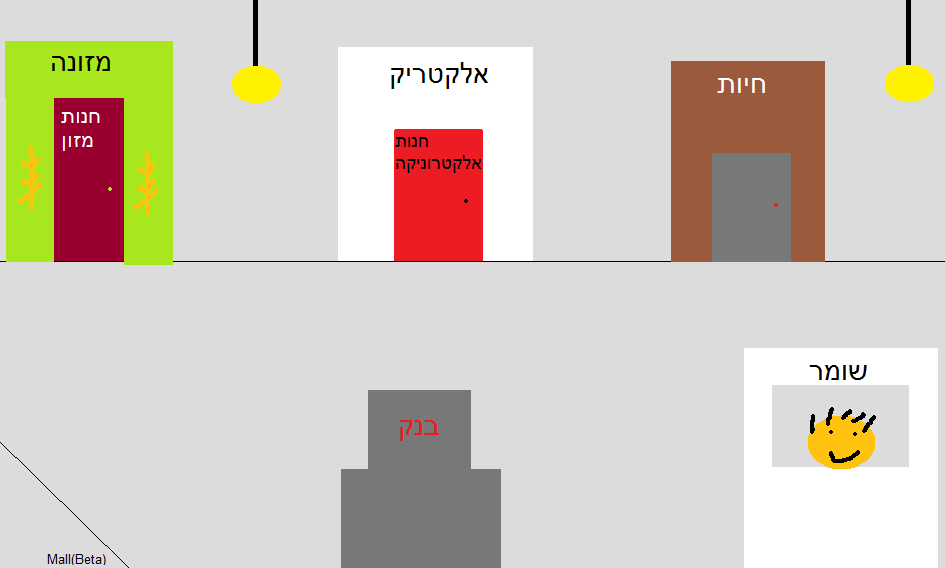
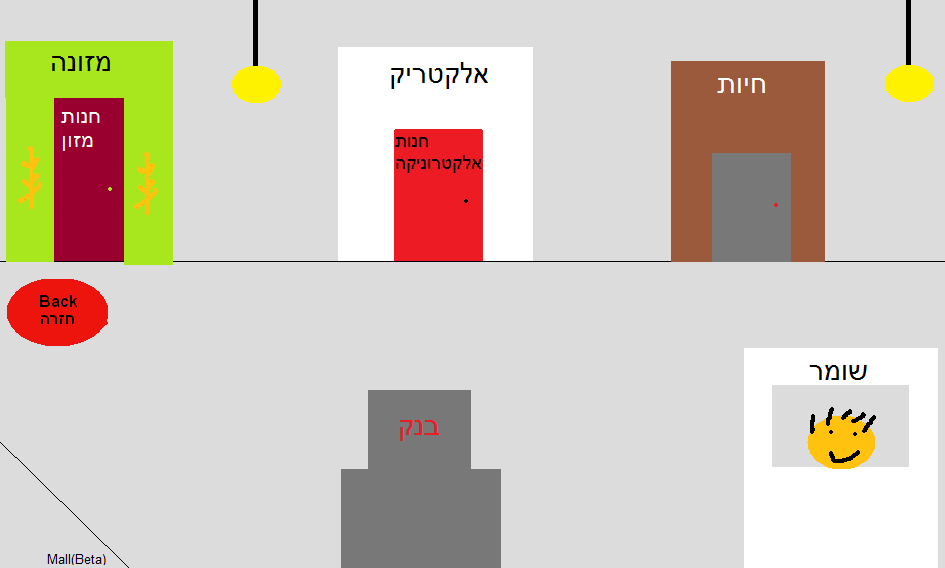
Doing 5 Roads And Battletunnle

Changed region(s): [[0.0, 0.4789, 0.1228, 0.6285]]

diff --git a/system/application/controllers/road2.php b/system/application/controllers/road2.php
@@ -11,60 +11,71 @@ class Road2 extends Funworldlife {
 }
 
 $map_file = array (
-	"file" => "Funworldlife_Mall.png",
+	"file" => "Funworldlife_Road2.png",
 	"width" => 945,
 	"height" => 568
 );
 
 $map = array(
 	array( 
-		"id" =>  "guard", 
-		"href" => "guard.php", 
-		"title" => "שומר",
-		"left" => 740, 
-		"top" => 344, 
-		"width" => 200, 
-		"height" => 224 
+		"id" =>  "Buttletunnle", 
+		"href" => "battletunnle", 
+		"title" => "בית המלחמות | Battletunnle",
+		"left" => 608, 
+		"top" => 92,
+		"width" => 241, 
+		"height" => 470 
 	),
 	
 	array( 
-		"id" =>  "bank", 
-		"href" => "bank.php", 
-		"title" => "בנק",
-		"left" => 339, 
-		"top" => 386, 
-		"width" => 162, 
-		"height" => 182 
+		"id" =>  "buyhouse", 
+		"href" => "buyhouse", 
+		"title" => "Click Her To Bulid A House | לחץ כאן כדי לבנות בית",
+		"left" => 418, 
+		"top" => 461, 
+		"width" => 183, 
+		"height" => 107 
 	),
 	
 	array( 
-		"id" =>  "shop_food", 
-		"href" => "shop_food.php", 
-		"title" => "מזונה - חנות מזון",
-		"left" => 5, 
-		"top" => 42, 
-		"width" => 169, 
-		"height" => 221 
+		"id" =>  "buyhouse2", 
+		"href" => "buyhouse", 
+		"title" => "Click Her To Bulid A House | לחץ כאן כדי לבנות בית",
+		"left" => 227, 
+		"top" => 461, 
+		"width" => 183, 
+		"height" => 107 
 	),
 	
 	array( 
-		"id" =>  "shop_electric", 
-		"href" => "shop_electric.php", 
-		"title" => "אלקטריק - חנות אלקטרוניקה",
-		"left" => 332, 
-		"top" => 42, 
-		"width" => 205, 
-		"height" => 219 
+		"id" =>  "apartments", 
+		"href" => "apartments", 
+		"title" => "דירות | apartments",
+		"left" => 0, 
+		"top" => 251, 
+		"width" => 106, 
+		"height" => 317 
 	),
 	
+		
 	array( 
-		"id" =>  "shop_pets", 
-		"href" => "shop_pets.php", 
-		"title" => "חיות - חנות חיות",
-		"left" => 671, 
-		"top" => 61, 
-		"width" => 153, 
-		"height" => 200 
+		"id" =>  "arrow_left", 
+		"href" => "welcome", 
+		"title" => "לרחוב הקודם",
+		"left" => 0, 
+		"top" => 127, 
+		"width" => 86, 
+		"height" => 54
+	),	
+	
+		array( 
+		"id" =>  "arrow_right", 
+		"href" => "road3", 
+		"title" => "לרחוב הבא",
+		"left" => 853, 
+		"top" => 204, 
+		"width" => 86, 
+		"height" => 41
 	),	
 );
 

diff --git a/system/application/controllers/road3.php b/system/application/controllers/road3.php
@@ -1,0 +1,72 @@
+<?php
+require "Funworldlife.php";
+
+class Road3 extends Funworldlife {
+	function index()
+	{
+		global $map;
+		global $map_file;
+		parent::show_map('Third Road | רחוב שלישי', $map, $map_file);
+	}
+}
+
+$map_file = array (
+	"file" => "Funworldlife_Road3.png",
+	"width" => 945,
+	"height" => 568
+);
+
+$map = array(
+	array( 
+		"id" =>  "Buyhouse3", 
+		"href" => "Buyhouse", 
+		"title" => "לחץ כאן כדי לקנות בית | Click Here To Buy An House",
+		"left" => 36, 
+		"top" => 467,
+		"width" => 180, 
+		"height" => 101 
+	),
+	
+	array( 
+		"id" =>  "Museum", 
+		"href" => "Museum", 
+		"title" => "מוזאון | Museum",
+		"left" => 244, 
+		"top" => 170, 
+		"width" => 416, 
+		"height" => 396 
+	),
+	
+	array( 
+		"id" =>  "forest", 
+		"href" => "forest1", 
+		"title" => "לחץ כאן כדי להיכנס ליער | Click Here To Go In The Forest",
+		"left" => 663, 
+		"top" => 156, 
+		"width" => 277, 
+		"height" => 412 
+	),
+	
+		
+	array( 
+		"id" =>  "arrow_left", 
+		"href" => "road2", 
+		"title" => "לרחוב הקודם",
+		"left" => 0, 
+		"top" => 191, 
+		"width" => 89, 
+		"height" => 63
+	),	
+	
+	array( 
+		"id" =>  "arrow_right", 
+		"href" => "road4", 
+		"title" => "לרחוב הבא",
+		"left" => 843, 
+		"top" => 84, 
+		"width" => 98, 
+		"height" => 62
+	),	
+);
+
+?>

diff --git a/system/application/controllers/mall.php b/system/application/controllers/mall.php
@@ -19,7 +19,7 @@ $map_file = array (
 $map = array(
 	array( 
 		"id" =>  "guard", 
-		"href" => "guard.php", 
+		"href" => "guard", 
 		"title" => "שומר",
 		"left" => 740, 
 		"top" => 344, 
@@ -29,7 +29,7 @@ $map = array(
 	
 	array( 
 		"id" =>  "bank", 
-		"href" => "bank.php", 
+		"href" => "bank", 
 		"title" => "בנק",
 		"left" => 339, 
 		"top" => 386, 
@@ -39,7 +39,7 @@ $map = array(
 	
 	array( 
 		"id" =>  "shop_food", 
-		"href" => "shop_food.php", 
+		"href" => "shop_food", 
 		"title" => "מזונה - חנות מזון",
 		"left" => 5, 
 		"top" => 42, 
@@ -49,7 +49,7 @@ $map = array(
 	
 	array( 
 		"id" =>  "shop_electric", 
-		"href" => "shop_electric.php", 
+		"href" => "shop_electric", 
 		"title" => "אלקטריק - חנות אלקטרוניקה",
 		"left" => 332, 
 		"top" => 42, 
@@ -59,13 +59,23 @@ $map = array(
 	
 	array( 
 		"id" =>  "shop_pets", 
-		"href" => "shop_pets.php", 
+		"href" => "shop_pets", 
 		"title" => "חיות - חנות חיות",
 		"left" => 671, 
 		"top" => 61, 
 		"width" => 153, 
 		"height" => 200 
 	),	
+	
+		array( 
+		"id" =>  "back", 
+		"href" => "welcome", 
+		"title" => "חזרה לרחוב",
+		"left" => 11, 
+		"top" => 279, 
+		"width" => 97, 
+		"height" => 57 
+	),
 );
 
 ?>

diff --git a/system/application/controllers/road4.php b/system/application/controllers/road4.php
@@ -1,0 +1,66 @@
+<?php
+require "Funworldlife.php";
+
+class Road4 extends Funworldlife {
+	function index()
+	{
+		global $map;
+		global $map_file;
+		parent::show_map('Forth Road | רחוב רביעי', $map, $map_file');
+	}
+}
+
+$map_file = array (
+	"file" => "Road_4.png",
+	"width" => 945,
+	"height" => 568
+);
+
+$map = array(
+
+	
+	array( 
+		"id" =>  "DigHere", 
+		"href" => "DigHere1", 
+		"title" => "חפר כאן | Dig Here",
+		"left" => 624, 
+		"top" => 482,
+		"width" => 86, 
+		"height" => 71 
+	),
+	
+		
+	array( 
+		"id" =>  "arrow_left", 
+		"href" => "road3", 
+		"title" => "לרחוב הקודם",
+		"left" => 0, 
+		"top" => 191, 
+		"width" => 89, 
+		"height" => 63
+	),	
+	
+		array( 
+		"id" =>  "ClickFun-Desert", 
+		"href" => "Desert", 
+		"title" => "לחץ כאן כדי ללחת למדבר | Click Here To Go In The Fun-Desert",
+		"left" => 336, 
+		"top" => 351,
+		"width" => 189,
+		"height" => 169 
+	),
+	
+
+	array( 
+		"id" =>  "arrow_right", 
+		"href" => "road5", 
+		"title" => "לרחוב הבא",
+		"left" => 853, 
+		"top" => 204, 
+		"width" => 79, 
+		"height" => 51
+	),	
+	
+);
+
+?>

diff --git a/system/application/views/banner_logged.php b/system/application/views/banner_logged.php
@@ -13,9 +13,11 @@ var l=confirm("האם להיתנתק?")
 </script>
 
 <div align="center" style="background: yellow; width: 970;" dir="rtl">
-	<a onclick='ASK("<?php echo site_url(); ?>/login/logout");return false;' href='#'>
-	<b>התנתקות</b></a>
 	
+	ברוך הבא Username
 	כסף:<?php print $user_info->money; ?>&nbsp;|&nbsp;
 	בריאות:<?php print $user_info->health; ?>
+		
+	<a onclick='ASK("<?php echo site_url(); ?>/login/logout");return false;' href='#'>
+	<b>התנתקות</b></a>
 </div>

diff --git a/system/application/controllers/welcome.php b/system/application/controllers/welcome.php
@@ -80,15 +80,6 @@ $map = array(
 		"width" => 104, 
 		"height" => 168
 	),
-	array( 
-		"id" =>  "arrow_left", 
-		"href" => "arrow_left.php", 
-		"title" => "לרחוב הקודם",
-		"left" => 0, 
-		"top" => 207, 
-		"width" => 79, 
-		"height" => 49
-	),
 	
 );
 
